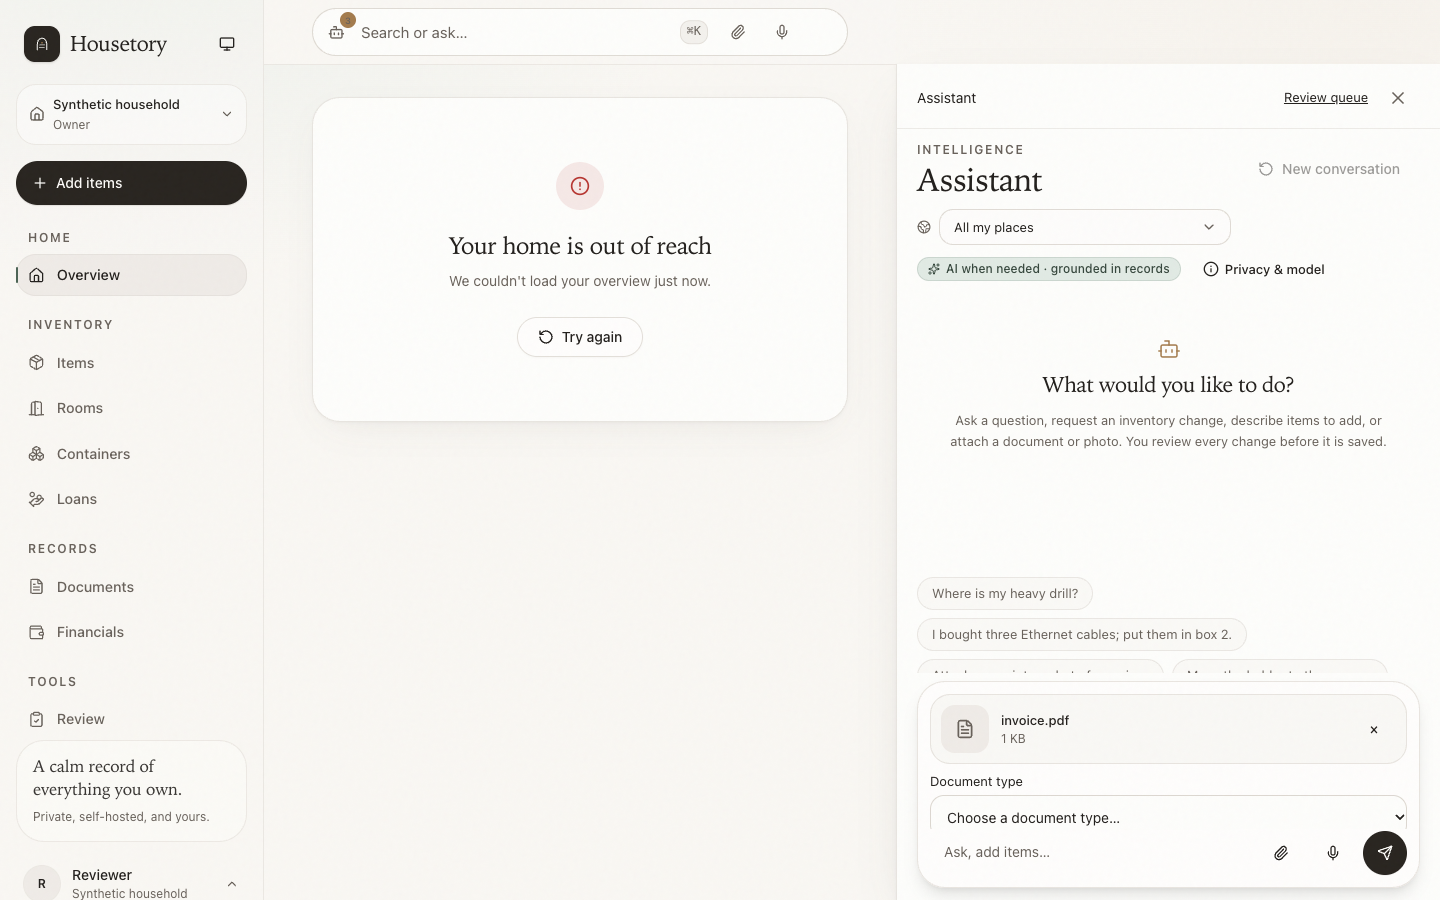
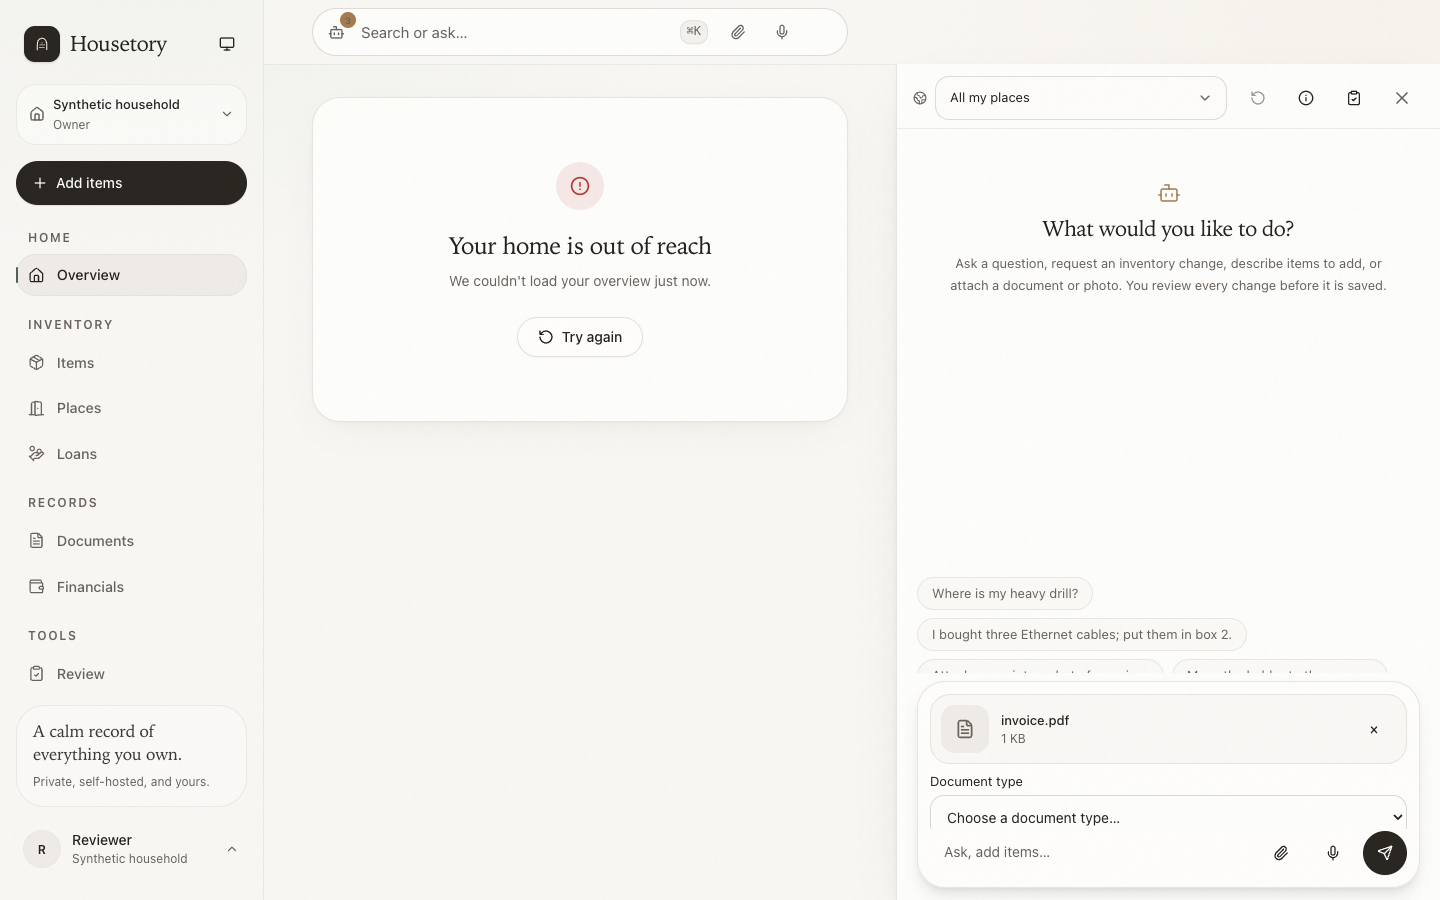
Align navigation checks and notes with the simplified app
Rewrites the stale navigation browser checks for the current sidebar, mobile bar and redirects. A capture handed from Add items to its inline review no longer raises a separate ready notification; other completion notifications are unchanged. Records which review recommendations were implemented, adjusted or declined.

diff --git a/apps/web/e2e/navigation.spec.ts b/apps/web/e2e/navigation.spec.ts
@@ -1,88 +1,42 @@
-import fs from "node:fs/promises";
+import { expect, test } from "@playwright/test";
 
-import { expect, test, type Page } from "@playwright/test";
-
-async function shot(page: Page, name: string) {
-  await fs.mkdir("../../docs/walkthrough/simplification3", { recursive: true });
-  await page.screenshot({
-    path: `../../docs/walkthrough/simplification3/${name}.png`,
-    fullPage: false,
-    animations: "disabled",
-  });
-}
-
-test("desktop navigation keeps core links calm and secondary routes under More", async ({
-  page,
-}) => {
+test("desktop sidebar lists each destination once", async ({ page }) => {
   await page.setViewportSize({ width: 1440, height: 1000 });
   await page.goto("/items");
-  const aside = page.locator("aside");
-  await expect(aside.getByRole("link", { name: "Items" })).toBeVisible();
-  await expect(aside.getByRole("link", { name: "Places" })).toBeVisible();
-  await expect(aside.getByRole("link", { name: "Loans" })).toBeVisible();
-  await expect(aside.getByRole("link", { name: "Review" })).not.toBeVisible();
-  await shot(page, "03-navigation-desktop-calm");
-
-  const more = aside.locator("summary").filter({ hasText: "More" });
-  await expect(more).toBeVisible();
-  await more.focus();
-  await page.keyboard.press("Enter");
-  await expect(aside.getByRole("link", { name: "Review" })).toBeVisible();
-  await expect(aside.getByRole("link", { name: "Purchases" })).toBeVisible();
-  await expect(aside.getByRole("link", { name: "Warranties" })).toBeVisible();
-  await expect(aside.getByRole("link", { name: "Assistant" })).toBeVisible();
-  await shot(page, "04-navigation-desktop-more");
-  await aside.getByRole("link", { name: "Review" }).click();
-  await expect(page).toHaveURL(/\/review$/);
-  await expect(aside.locator("details")).toHaveAttribute("open", "");
+  const nav = page.locator("aside nav a");
+  await expect(nav).toHaveText([
+    "Overview", "Items", "Places", "Loans", "Documents", "Financials", "Review",
+  ]);
+  await page.locator("aside").getByRole("link", { name: "Places", exact: true }).click();
+  await expect(page).toHaveURL(/\/rooms$/);
+  await page.getByRole("navigation", { name: "Places" }).getByRole("link", { name: "Containers" }).click();
+  await expect(page).toHaveURL(/\/containers$/);
+  await expect(page.locator("aside").getByRole("link", { name: "Places", exact: true }))
+    .toHaveClass(/nav-link-active/);
 });
 
-test("mobile navigation uses five destinations and keeps every secondary route reachable", async ({
-  page,
-}) => {
+test("mobile bar has five slots and More reaches everything else", async ({ page }) => {
   await page.setViewportSize({ width: 390, height: 844 });
   await page.goto("/items");
   const bottom = page.getByTestId("mobile-bottom-nav");
-  await expect(bottom).toBeVisible();
-  const links = bottom.locator("a");
-  await expect(links).toHaveCount(4);
-  await expect(links.nth(0)).toContainText("Home");
-  await expect(links.nth(1)).toContainText("Items");
-  await expect(links.nth(2)).toContainText("Rooms");
-  await expect(links.nth(3)).toContainText("Loans");
-  await expect(bottom.getByRole("button", { name: "More destinations" })).toBeVisible();
-
+  await expect(bottom.locator("a")).toHaveText(["Home", "Items", "Loans"]);
+  await expect(bottom.getByRole("button", { name: "Add items" })).toBeVisible();
   await bottom.getByRole("button", { name: "More destinations" }).click();
-  const menu = page.getByTestId("mobile-more-menu");
-  await expect(menu).toBeVisible();
-  await shot(page, "05-navigation-mobile-more");
-  for (const label of [
-    "Review",
-    "Documents",
-    "Purchases",
-    "Warranties",
-    "Containers",
-    "Assistant",
-    "Search",
-    "Settings",
-  ]) {
-    await expect(menu.getByRole("menuitem", { name: label })).toBeVisible();
-  }
-  await menu.getByRole("menuitem", { name: "Assistant" }).click();
-  await expect(page).toHaveURL(/\/assistant$/);
-  await expect(
-    page.getByRole("textbox", { name: "Ask the Housetory assistant" }),
-  ).toBeVisible();
+  await expect(page.getByTestId("mobile-more-menu").getByRole("menuitem"))
+    .toHaveText(["Places", "Documents", "Financials", "Review", "Settings"]);
 });
 
-test("search keeps Assistant secondary without adding a competing nav entry", async ({
-  page,
-}) => {
+test("retired destinations redirect instead of breaking old links", async ({ page }) => {
   await page.setViewportSize({ width: 1440, height: 1000 });
-  await page.goto("/search");
-  await expect(
-    page.getByRole("link", { name: "Assistant", exact: true }),
-  ).toBeVisible();
-  await page.getByRole("link", { name: "Assistant", exact: true }).click();
-  await expect(page).toHaveURL(/\/assistant$/);
+  await page.goto("/search?q=ladder");
+  await expect(page).toHaveURL(/\/items\?q=ladder$/);
+  await page.goto("/assistant");
+  await expect(page).toHaveURL(/#assistant$/);
+  await expect(page.getByRole("textbox", { name: "Ask the Housetory assistant" })).toBeVisible();
+  await page.getByRole("button", { name: "Close assistant", exact: true }).click();
+  for (const path of ["/scan", "/recognize", "/add-items"]) {
+    await page.goto(path);
+    await expect(page.getByRole("dialog", { name: "Add items" })).toBeVisible();
+    await page.keyboard.press("Escape");
+  }
 });

diff --git a/apps/web/src/components/app-shell.tsx b/apps/web/src/components/app-shell.tsx
@@ -170,13 +170,9 @@ function AppShellLayout() {
   const assistantHeading = useRef<HTMLHeadingElement | null>(null);
   const restoreAssistantFocus = useRef(false);
   const { openAddItems } = useAddItems();
-  const {
-    select: selectDocument, selectImport, selectPhoto, pendingReviews,
-    activeId, activeImportId, activePhotoId,
-  } = useAssistantDocuments();
-  // The review already on screen needs no "ready" toast.
-  const visibleReview = useRef<string | null>(null);
-  visibleReview.current = assistantOpen ? activeImportId ?? activeId ?? activePhotoId : null;
+  const { select: selectDocument, selectImport, selectPhoto, pendingReviews } = useAssistantDocuments();
+  // Captures handed straight to the inline review need no separate "ready" toast.
+  const handedToReview = useRef(new Set<string>());
   const pendingActions = usePendingActions();
   const reviewCount = (reviewSummary.data?.pending_count ?? 0) + pendingReviews.length
     + (pendingActions.data?.length ?? 0);
@@ -232,6 +228,7 @@ function AppShellLayout() {
       assistantTrigger.current = document.activeElement;
       restoreAssistantFocus.current = true;
     }
+    if ("fresh" in capture && capture.fresh === true) handedToReview.current.add(capture.id);
     setAssistantRequest({ id: location.key, text: "", capture: { id: capture.id, kind: capture.kind } });
   }, [location.hash, location.key, location.state]);
 
@@ -317,7 +314,7 @@ function AppShellLayout() {
       } catch {
         // The in-memory key still prevents repeat toasts in this page session.
       }
-      if (visibleReview.current === task.id) return;
+      if (handedToReview.current.delete(task.id)) return;
       toast.success(task.title, {
         id: key,
         description: task.description,

diff --git a/apps/web/e2e/product-simplification.spec.ts b/apps/web/e2e/product-simplification.spec.ts
@@ -124,6 +124,7 @@ for (const mobile of [false, true]) {
     await expect(results.getByText(/^Ask the assistant:/)).toHaveCount(1);
     await results.getByText(itemName).first().click();
     await expect(page).toHaveURL(new RegExp(`/items/${saved.id}`));
+    await expect(page.getByRole("heading", { name: itemName, level: 1 })).toBeVisible();
     if (shots) await page.screenshot({ path: `${shots}/${size}-item.png`, fullPage: true });
 
     // Overview keeps occasional tasks in one menu; Settings keeps setup detail collapsed.

diff --git a/apps/web/src/components/add-items.test.tsx b/apps/web/src/components/add-items.test.tsx
@@ -146,7 +146,7 @@ const currentUrl = () =>
 const expectInlineReview = () => waitFor(() => {
   expect(screen.getByTestId("location-hash")).toHaveTextContent("#assistant");
   expect(JSON.parse(screen.getByTestId("navigation-state").textContent ?? "null"))
-    .toEqual({ assistantCapture: { kind: "items", id: "batch-1" } });
+    .toEqual({ assistantCapture: { kind: "items", id: "batch-1", fresh: true } });
   expect(currentUrl().pathname).toBe("/");
 });
 

diff --git a/apps/web/src/components/smart-add-input.tsx b/apps/web/src/components/smart-add-input.tsx
@@ -176,7 +176,7 @@ export function SmartAddInput({
       { pathname: location.pathname, search: location.search, hash: "#assistant" },
       {
         replace: location.hash === "#assistant",
-        state: { assistantCapture: { kind: "items", id: batchId } },
+        state: { assistantCapture: { kind: "items", id: batchId, fresh: true } },
       },
     );
   };

diff --git a/docs/PRODUCT_DESIGN_REVIEW.md b/docs/PRODUCT_DESIGN_REVIEW.md
@@ -115,6 +115,29 @@ Imports, document extraction, photo recognition and voice suggestions each have 
 5. Trim Settings, AI settings and assurance text (rows 7–9).
 6. Optional polish (rows 10–12, 15); consider row 13 only after the rest.
 
+## Implementation status
+
+Implemented on `feature/product-simplification`. Row numbers refer to the table above.
+
+| Row | Outcome |
+|---|---|
+| 1 | **Adjusted.** The Add items dialog stays as the quick entry, because its place picker, camera buttons and "fill in the form yourself" link are the fastest way to start. Its captures are now reviewed inline in the assistant panel, so every capture ends in one review surface. |
+| 2 | Done. `search-page.tsx` and its test removed. |
+| 3 | Done. `/scan` and `/recognize` open Add items with their place context; the pages, their test and `lib/recognition.ts` are removed. |
+| 4, 5 | **Not done, deliberately.** The three unused endpoints are thin routes over services that `/search/query` still uses, and about fifty backend tests enter through them. Removing them saves little and loses coverage. The phrase-based fallback is what keeps typed actions working without AI, so removing it would cut offline capability. |
+| 6 | Done as a count and a list. Prepared actions waiting for Apply now count in the header badge and appear on the Review page, where they can be reopened or cancelled. Storage stays separate. |
+| 7 | Partly. Online-search setup, iPhone install and credential instructions are collapsed until needed; Settings is still one page. |
+| 8 | Partly. Credential operations are collapsed; the provider and task layout is unchanged. |
+| 9 | Partly. Removed from Overview and the item page; review surfaces keep their own wording. |
+| 10 | Done. One "Ask the assistant" row; the duplicate buttons are gone where the panel is available. |
+| 11 | Done. Insurance list, evidence export and new room are in one Home actions menu on every size; the empty warranty section is hidden. |
+| 12 | **Adjusted.** "Store items inside" stays visible with one line of text instead of moving into a menu; the duplicated loan caveat is removed. |
+| 13 | Done as **Places**: one navigation entry, Rooms as the starting tab and Containers one tab away. Both pages keep their own behaviour, including label and QR actions. Room and container detail pages keep the Places entry highlighted. |
+| 14 | Partly. The duplicate Loans entry is gone; breadcrumbs still show household and property. |
+| 15 | Not done. Two superseded documents carry a note; the wider documentation clean-up remains. |
+
+Also done: the four visible defects, restored conversation history now appears above a newly opened capture, and a capture already on screen no longer raises a separate "ready" notification. The valuation dialog, unwired from the interface by an earlier simplification, is removed; its server endpoints remain.
+
 ## Scale, for context
 
 About 56,000 lines of frontend and 77,000 lines of backend code (excluding tests), 75 tables, 33 authenticated routes, 83 documented environment variables and 52 browser test files, for a household inventory. The numbers are not a problem in themselves, but they explain why consistency is hard to keep and why removal now pays more than addition.

diff --git a/ARCHITECTURE.md b/ARCHITECTURE.md
@@ -151,7 +151,7 @@ All application endpoints are versioned under `/api/v1`.
 | Voice | `GET /voice/config`, `POST /voice` (private audio + optional room/location context), `GET /voice/{id}`, `POST /voice/{id}/interpret`, transcription retry, explicit confirm and cancel |
 | Lending | `GET/POST /loans`, `GET/PATCH /loans/{id}`, partial returns, cancel, `GET /items/{id}/loans`, item/container history and `POST /history/{event_id}/undo` |
 | Documents/AI | `GET /documents/{id}/related-items` |
-| AI | `GET /ai/status?task=`, `POST /assistant/query`, `POST /search/natural`, recognition create/list/detail/retry/apply, provider settings CRUD, model discovery, connection test, task defaults and credential rotation |
+| AI | `GET /ai/status?task=`, `POST /assistant/query` and `POST /search/natural` (compatibility endpoints with no caller in the web app; they share services with `POST /search/query`), recognition create/list/detail/retry/apply, provider settings CRUD, model discovery, connection test, task defaults and credential rotation |
 | AI settings | `GET /ai/settings`, `POST/PATCH/DELETE /ai/providers`, `GET /ai/providers/{id}/models`, `POST /ai/providers/{id}/test`, `PUT /ai/tasks/{task}`, `POST /ai/credentials/rotate` (owner only) |
 
 OpenAPI documentation is available in development at `/api/docs`. It is

diff --git a/docs/UNIFIED_SEARCH.md b/docs/UNIFIED_SEARCH.md
@@ -1,5 +1,7 @@
 # Unified search and multilingual assistant
 
+> **Superseded in part.** There is no longer a Search page or a separate Assistant page: `/search` and `/assistant` redirect, and assistance opens in the panel from the header entry. The submit-time order and scope rules below still apply to the no-AI fallback.
+
 Housetory has one submit-time search flow across the global top box, the mobile
 entry, the search results page and the secondary Assistant page. Typing is still
 a cheap, local direct lookup; pressing Enter submits the same request everywhere.

diff --git a/docs/SIMPLIFICATION3.md b/docs/SIMPLIFICATION3.md
@@ -1,5 +1,7 @@
 # Simplification 3: default AI setup, calmer navigation and optional schedules
 
+> **Navigation section superseded.** Current navigation is Overview, Items, Places (Rooms and Containers tabs), Loans, Documents, Financials and Review. See `docs/PRODUCT_DESIGN_REVIEW.md`.
+
 This batch keeps the existing permissions, stored task assignments, provider
 credentials, consent, search context and visual style. It reduces setup and
 navigation friction without deleting features or adding a subscription.
